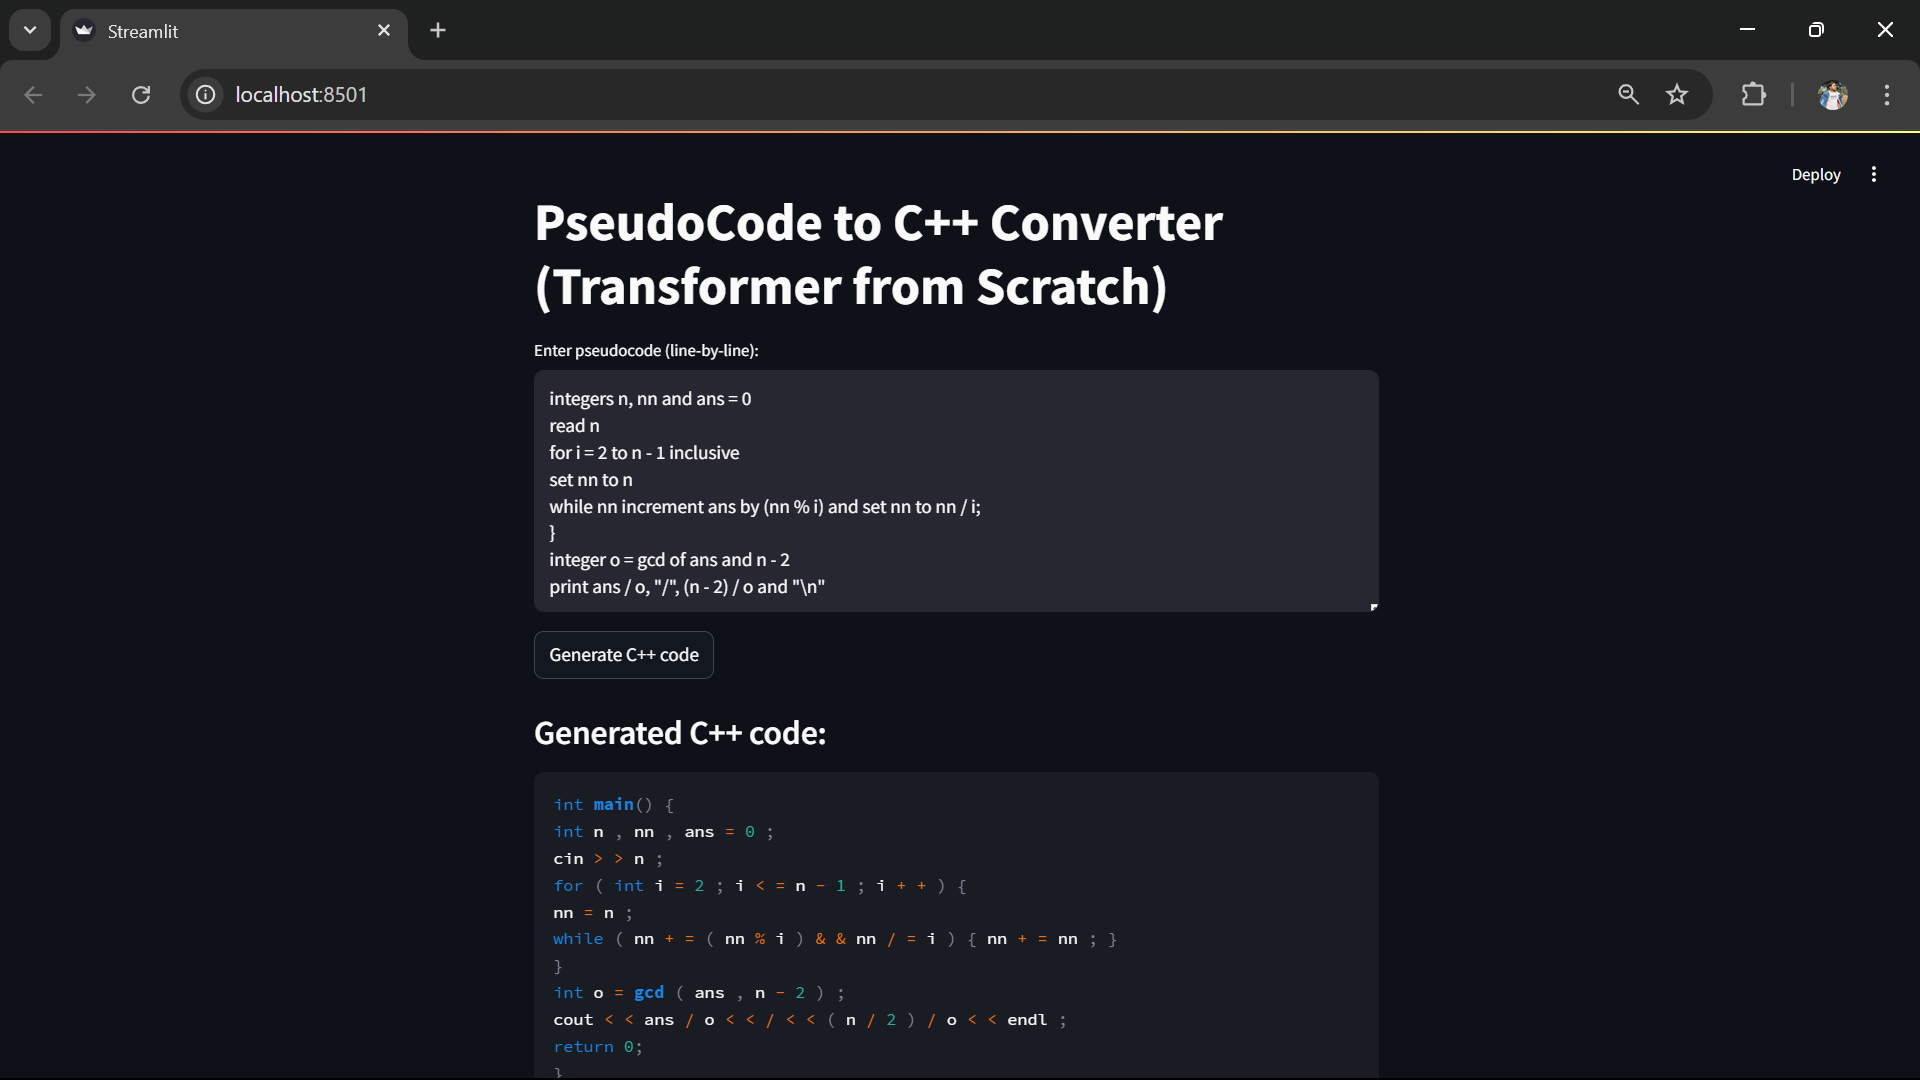
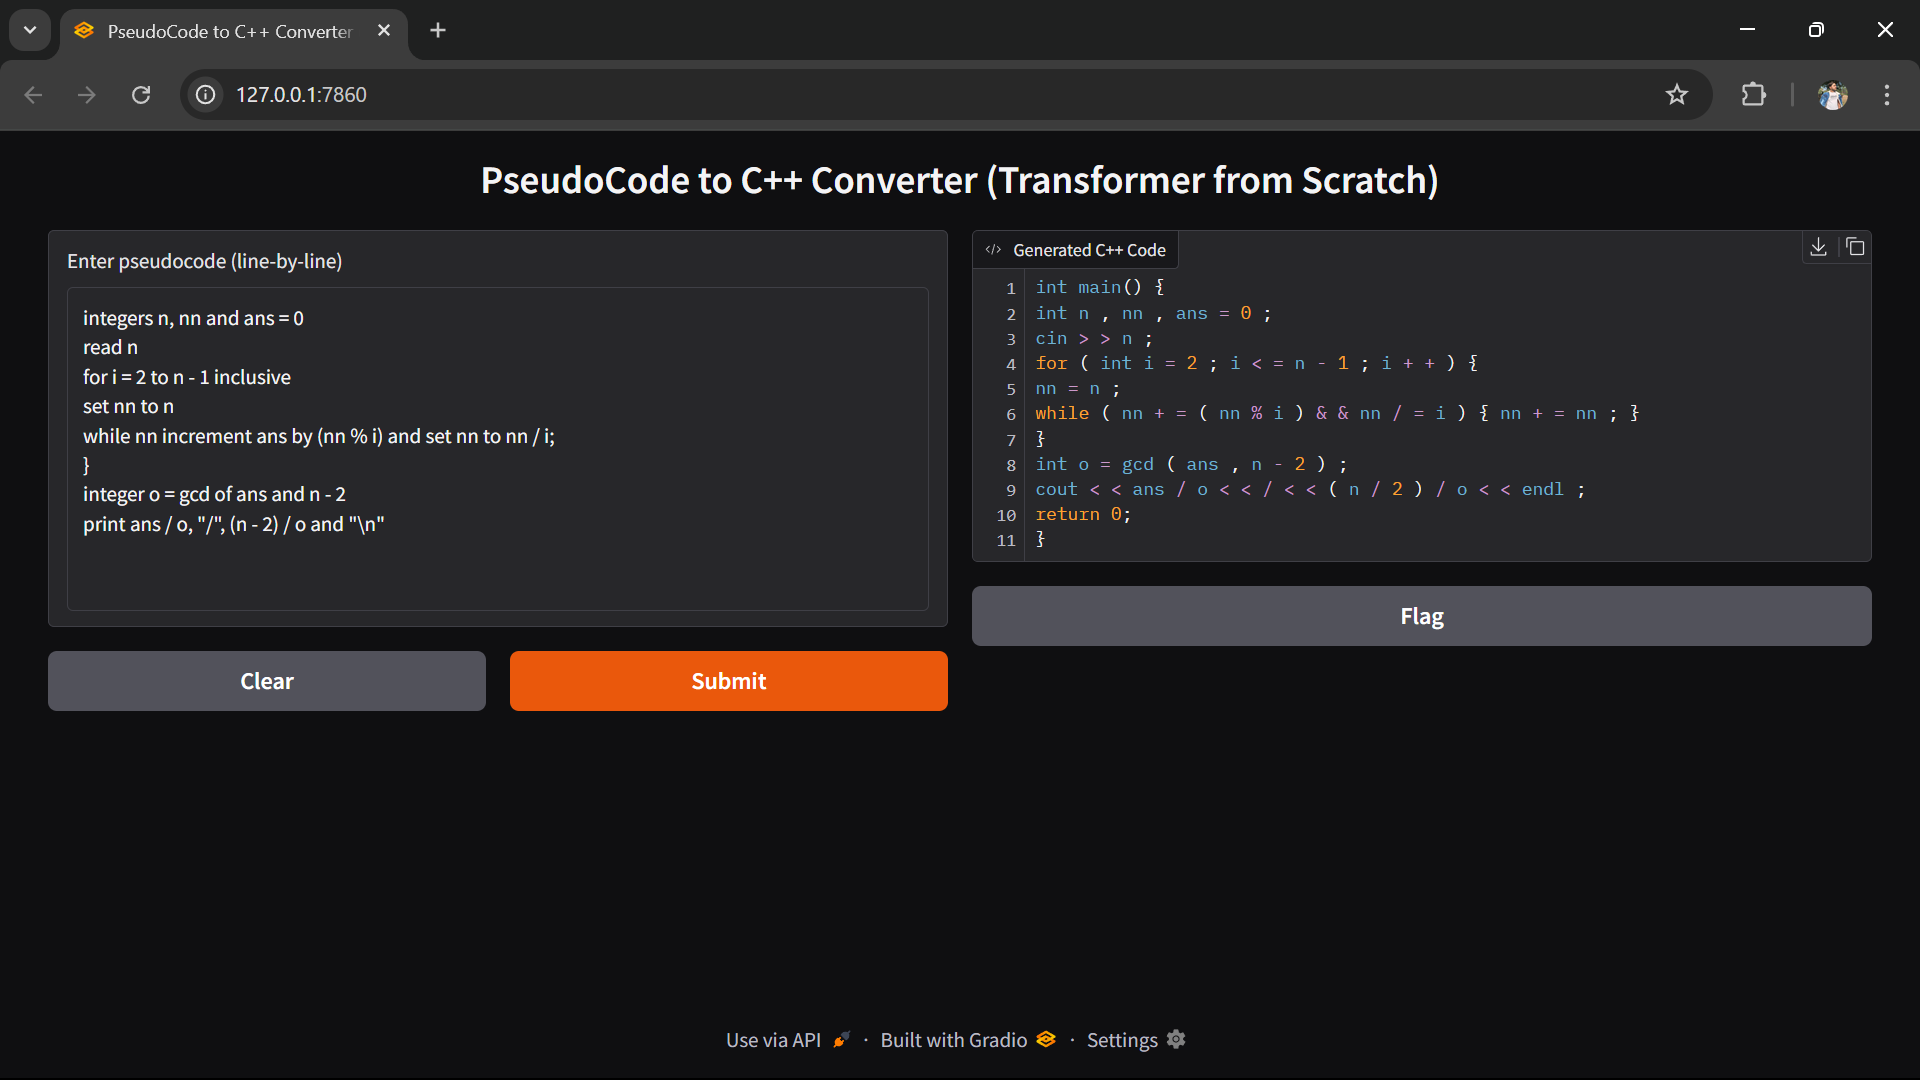
Final

diff --git a/app.py b/app.py
@@ -1,4 +1,5 @@
-import streamlit as st
+# gradio_app.py
+import gradio as gr
 import torch
 import os
 import math
@@ -10,9 +11,6 @@ import asyncio
 if sys.platform.startswith('win'):
     asyncio.set_event_loop_policy(asyncio.WindowsSelectorEventLoopPolicy())
 
-# ----------------------------
-# Global Settings & Hyperparameters
-# ----------------------------
 DEVICE = torch.device("cuda" if torch.cuda.is_available() else "cpu")
 MAX_LEN = 128
 EMBED_DIM = 256
@@ -21,36 +19,25 @@ NUM_ENCODER_LAYERS = 2
 NUM_DECODER_LAYERS = 2
 FF_DIM = 512
 
-# Special tokens
 PAD_TOKEN = "<pad>"
 SOS_TOKEN = "<sos>"
 EOS_TOKEN = "<eos>"
 UNK_TOKEN = "<unk>"
 
-# ----------------------------
-# Helper Functions for Tokenization & Padding
-# ----------------------------
 def tokenize_line(text: str):
-    """Naively tokenize text by splitting on alphanumeric and non-space symbols."""
-    tokens = re.findall(r"[A-Za-z0-9]+|[^\sA-Za-z0-9]", text)
-    return tokens
+    return re.findall(r"[A-Za-z0-9]+|[^\sA-Za-z0-9]", text)
 
 def numericalize(text: str, stoi: dict):
-    """Convert text into a list of token IDs using the given stoi (string-to-index) mapping."""
     tokens = tokenize_line(text)
     return [stoi.get(tok, stoi[UNK_TOKEN]) for tok in tokens]
 
 def pad_sequence(seq, max_len, pad_id):
-    """Pad (or truncate) a sequence to a fixed length, appending EOS token before padding."""
-    seq = seq[:max_len-1]  # Reserve space for EOS
+    seq = seq[:max_len-1]
     seq = seq + [tgt_stoi[EOS_TOKEN]]
     if len(seq) < max_len:
         seq += [pad_id] * (max_len - len(seq))
     return seq
 
-# ----------------------------
-# Model Components
-# ----------------------------
 class PositionalEncoding(nn.Module):
     def __init__(self, d_model, max_len=5000):
         super().__init__()
@@ -59,7 +46,7 @@ class PositionalEncoding(nn.Module):
         div_term = torch.exp(torch.arange(0, d_model, 2).float() * (-math.log(10000.0) / d_model))
         pe[:, 0::2] = torch.sin(position * div_term)
         pe[:, 1::2] = torch.cos(position * div_term)
-        pe = pe.unsqueeze(0)  # shape: (1, max_len, d_model)
+        pe = pe.unsqueeze(0)
         self.register_buffer("pe", pe)
     def forward(self, x):
         return x + self.pe[:, :x.size(1), :]
@@ -168,9 +155,6 @@ class TransformerSeq2Seq(nn.Module):
         memory = self.encoder(src, src_mask)
         return self.decoder(tgt, memory, tgt_mask)
 
-# ----------------------------
-# Inference Helpers
-# ----------------------------
 def generate_subsequent_mask(size):
     mask = torch.triu(torch.ones(size, size), diagonal=1).bool()
     return ~mask
@@ -193,24 +177,16 @@ def greedy_decode(model, src, src_stoi, tgt_stoi, tgt_itos, max_len=MAX_LEN):
         out_tokens = out_tokens[:out_tokens.index(tgt_stoi[EOS_TOKEN])]
     return " ".join(tgt_itos[t] for t in out_tokens)
 
-# ----------------------------
-# Streamlit App
-# ----------------------------
-st.title("PseudoCode to C++ Converter (Transformer from Scratch)")
-
-# Check for model file
+# Load model and vocabulary
 if not os.path.exists("model.pth"):
-    st.error("Model file 'model.pth' not found. Please train first.")
-    st.stop()
+    raise FileNotFoundError("Model file 'model.pth' not found. Please train first.")
 
-# Load the trained model checkpoint and vocab dictionaries
 checkpoint = torch.load("model.pth", map_location=DEVICE)
 src_stoi = checkpoint['src_stoi']
 src_itos = checkpoint['src_itos']
 tgt_stoi = checkpoint['tgt_stoi']
 tgt_itos = checkpoint['tgt_itos']
 
-# Create the model and load the saved state
 model = TransformerSeq2Seq(
     src_vocab_size=len(src_stoi),
     tgt_vocab_size=len(tgt_stoi),
@@ -223,34 +199,31 @@ model = TransformerSeq2Seq(
 model.load_state_dict(checkpoint['model_state_dict'])
 model.eval()
 
-# Set global EOS token for pad_sequence
-# (Note: tgt_stoi[EOS_TOKEN] is used in pad_sequence above)
+def convert_pseudocode(text):
+    lines = text.strip().split('\n')
+    outputs = []
+    for i, line in enumerate(lines):
+        line = line.strip()
+        if not line:
+            outputs.append("")
+        elif line == "}":
+            outputs.append("}")
+        else:
+            try:
+                src_ids = numericalize(line, src_stoi)
+                src_ids = pad_sequence(src_ids, MAX_LEN, src_stoi[PAD_TOKEN])
+                output_line = greedy_decode(model, src_ids, src_stoi, tgt_stoi, tgt_itos)
+                outputs.append(output_line)
+            except Exception as e:
+                outputs.append(f"// [Error in line {i+1}]: {e}")
+    return "int main() {\n" + '\n'.join(outputs) + "\nreturn 0;\n}" 
 
-# User interface for pseudocode input (multi-line)
-user_input = st.text_area("Enter pseudocode (line-by-line):", height=200)
+iface = gr.Interface(
+    fn=convert_pseudocode,
+    inputs=gr.Textbox(label="Enter pseudocode (line-by-line)", lines=10),
+    outputs=gr.Code(language="cpp", label="Generated C++ Code"),
+    title="PseudoCode to C++ Converter (Transformer from Scratch)"
+)
 
-if st.button("Generate C++ code"):
-    if user_input.strip():
-        lines = user_input.strip().split('\n')
-        outputs = []
-
-        for i, line in enumerate(lines):
-            line = line.strip()
-            if not line:
-                outputs.append("")  # preserve blank lines
-            elif line == "}":
-                outputs.append("}")  # 👈 this line handles your request
-            else:
-                try:
-                    src_ids = numericalize(line, src_stoi)
-                    src_ids = pad_sequence(src_ids, MAX_LEN, src_stoi[PAD_TOKEN])
-                    output_line = greedy_decode(model, src_ids, src_stoi, tgt_stoi, tgt_itos)
-                    outputs.append(output_line)
-                except Exception as e:
-                    outputs.append(f"// [Error in line {i+1}]: {e}")
-
-        final_output = "int main() {\n" + '\n'.join(outputs) + "\nreturn 0;" + "\n}"
-        st.subheader("Generated C++ code:")
-        st.code(final_output, language="cpp")
-    else:
-        st.warning("Please enter some pseudocode first.")
+if __name__ == "__main__":
+    iface.launch()
